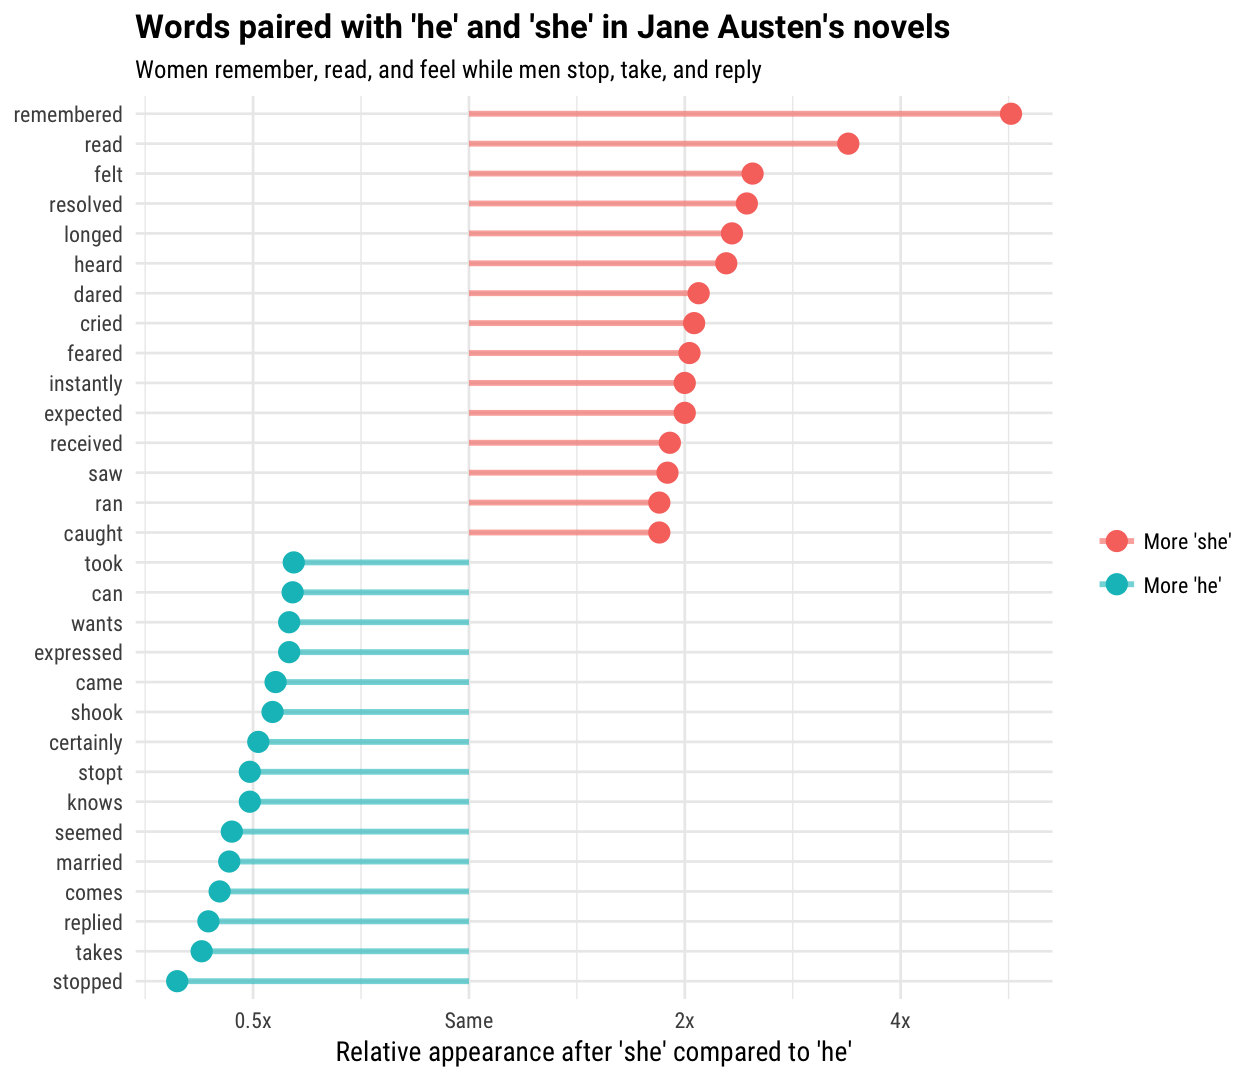
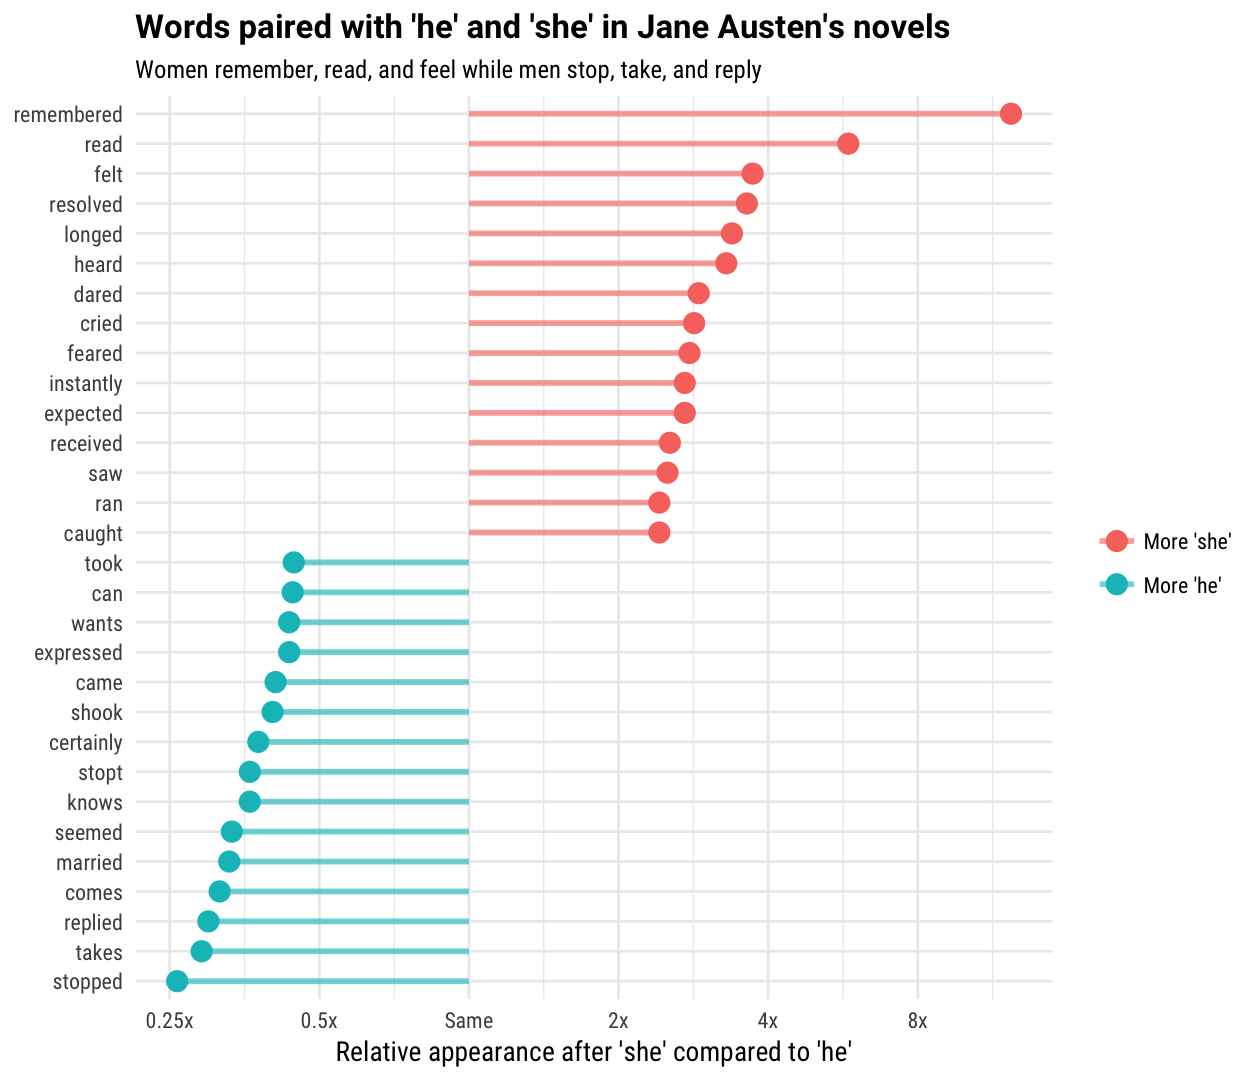
Ack! log2! and also use sum() inside filter()

Changed region(s): [[0.7119, 0.9167, 0.7429, 0.9472], [0.1857, 0.9167, 0.2167, 0.9472], [0.1238, 0.9167, 0.1548, 0.9472]]

diff --git a/_posts/2017-04-15-Gender-Pronouns.md b/_posts/2017-04-15-Gender-Pronouns.md
@@ -59,8 +59,7 @@ That is all the bigrams from Jane Austen's works, but we only want the ones that
 pronouns <- c("he", "she")
 
 bigram_counts <- austen_bigrams %>%
-    count(book, bigram, sort = TRUE) %>%
-    ungroup() %>%
+    count(bigram, sort = TRUE) %>%
     separate(bigram, c("word1", "word2"), sep = " ") %>%
     filter(word1 %in% pronouns) %>%
     count(word1, word2, wt = n, sort = TRUE) %>%
@@ -94,13 +93,11 @@ There we go! These are the most common bigrams that start with "he" and "she" in
 {% highlight r %}
 word_ratios <- bigram_counts %>%
     group_by(word2) %>%
-    mutate(word_total = sum(total)) %>%
+    filter(sum(total) > 10) %>%
     ungroup() %>%
-    filter(word_total > 10) %>%
-    select(-word_total) %>%
     spread(word1, total, fill = 0) %>%
     mutate_if(is.numeric, funs((. + 1) / sum(. + 1))) %>%
-    mutate(logratio = log(she / he)) %>%
+    mutate(logratio = log2(she / he)) %>%
     arrange(desc(logratio))    
 {% endhighlight %}
 
@@ -118,16 +115,16 @@ word_ratios %>%
 ## # A tibble: 164 × 4
 ##           word2          he          she    logratio
 ##           <chr>       <dbl>        <dbl>       <dbl>
-## 1        always 0.001846438 0.0018956289  0.02629233
-## 2         loves 0.000923219 0.0008920607 -0.03433229
-## 3           too 0.000923219 0.0008920607 -0.03433229
-## 4          when 0.000923219 0.0008920607 -0.03433229
-## 5  acknowledged 0.001077089 0.0011150758  0.03466058
-## 6      remained 0.001077089 0.0011150758  0.03466058
-## 7           had 0.157562702 0.1642506690  0.04157024
-## 8        paused 0.001384828 0.0014495986  0.04571041
-## 9         would 0.040775504 0.0428189117  0.04889836
-## 10       turned 0.003077397 0.0032337199  0.04954919
+## 1        always 0.001846438 0.0018956289  0.03793181
+## 2         loves 0.000923219 0.0008920607 -0.04953103
+## 3           too 0.000923219 0.0008920607 -0.04953103
+## 4          when 0.000923219 0.0008920607 -0.04953103
+## 5  acknowledged 0.001077089 0.0011150758  0.05000464
+## 6      remained 0.001077089 0.0011150758  0.05000464
+## 7           had 0.157562702 0.1642506690  0.05997318
+## 8        paused 0.001384828 0.0014495986  0.06594619
+## 9         would 0.040775504 0.0428189117  0.07054542
+## 10       turned 0.003077397 0.0032337199  0.07148437
 ## # ... with 154 more rows
 {% endhighlight %}
 
@@ -152,8 +149,9 @@ word_ratios %>%
          title = "Words paired with 'he' and 'she' in Jane Austen's novels",
          subtitle = "Women remember, read, and feel while men stop, take, and reply") +
     scale_color_discrete(name = "", labels = c("More 'she'", "More 'he'")) +
-    scale_y_continuous(breaks = seq(-1, 2),
-                       labels = c("0.5x", "Same", "2x", "4x"))
+    scale_y_continuous(breaks = seq(-3, 3),
+                       labels = c("0.125x", "0.25x", "0.5x", 
+                                  "Same", "2x", "4x", "8x"))
 {% endhighlight %}
 
 ![center](/figs/2017-04-15-Gender-Pronouns/austen-1.png)
@@ -186,13 +184,11 @@ eliot_ratios <- eliot %>%
     count(word1, word2, wt = n, sort = TRUE) %>%
     rename(total = nn) %>%
     group_by(word2) %>%
-    mutate(word_total = sum(total)) %>%
+    filter(sum(total) > 10) %>%
     ungroup() %>%
-    filter(word_total > 10) %>%
-    select(-word_total) %>%
     spread(word1, total, fill = 0) %>%
     mutate_if(is.numeric, funs((. + 1) / sum(. + 1))) %>%
-    mutate(logratio = log(she / he)) %>%
+    mutate(logratio = log2(she / he)) %>%
     arrange(desc(logratio))
 {% endhighlight %}
 
@@ -217,9 +213,9 @@ eliot_ratios %>%
          title = "Words paired with 'he' and 'she' in George Eliot's novels",
          subtitle = "Women read, run, and need while men leave, mean, and tell") +
     scale_color_discrete(name = "", labels = c("More 'she'", "More 'he'")) +
-    scale_y_continuous(breaks = seq(-3, 3),
-                       labels = c("0.125x", "0.25x", "0.5x", 
-                                  "Same", "2x", "4x", "8x"))
+    scale_y_continuous(breaks = seq(-5, 5),
+                       labels = c("0.03125x", "0.0625x", "0.125x", "0.25x", "0.5x", 
+                                  "Same", "2x", "4x", "8x", "16x", "32x"))
 {% endhighlight %}
 
 ![center](/figs/2017-04-15-Gender-Pronouns/eliot-1.png)
@@ -244,13 +240,11 @@ eyre_ratios <- eyre %>%
     count(word1, word2, wt = n, sort = TRUE) %>%
     rename(total = nn) %>%
     group_by(word2) %>%
-    mutate(word_total = sum(total)) %>%
+    filter(sum(total) > 5) %>%
     ungroup() %>%
-    filter(word_total > 5) %>%
-    select(-word_total) %>%
     spread(word1, total, fill = 0) %>%
     mutate_if(is.numeric, funs((. + 1) / sum(. + 1))) %>%
-    mutate(logratio = log(she / he)) %>%
+    mutate(logratio = log2(she / he)) %>%
     arrange(desc(logratio))
 {% endhighlight %}
 
